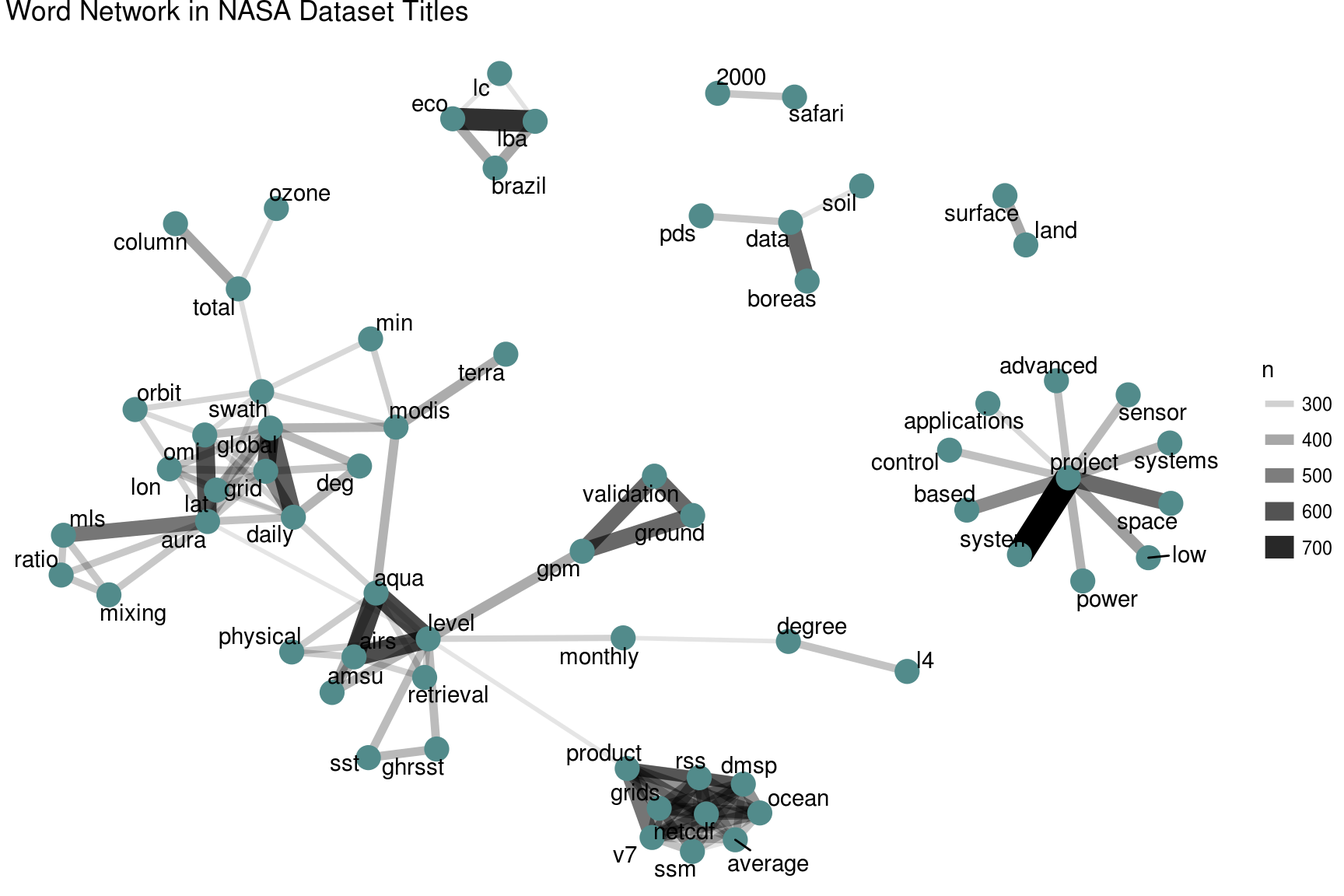
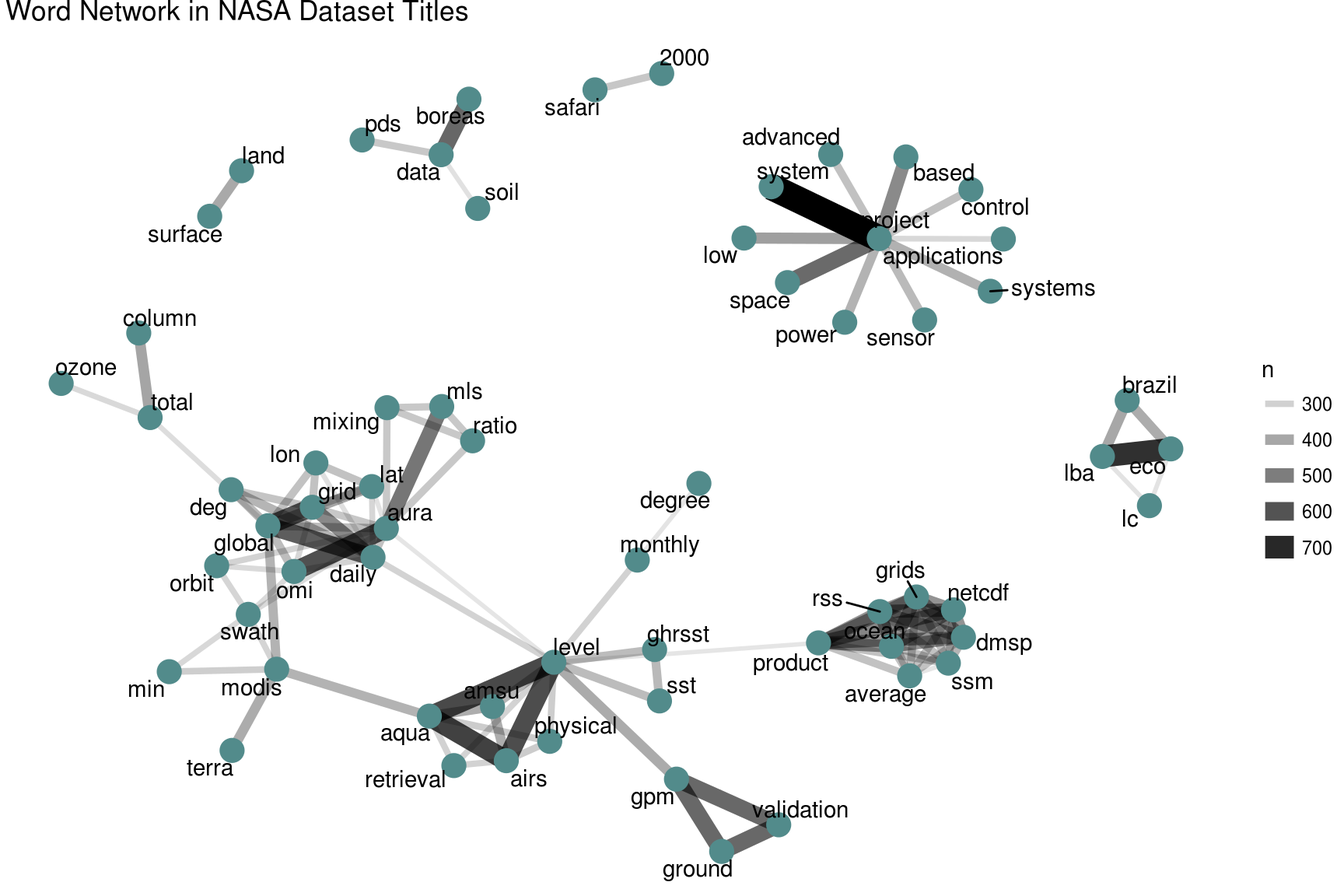
Updating book (182)

diff --git a/nasa.html b/nasa.html
@@ -313,19 +313,51 @@ nasa_keyword</code></pre></div>
 ## 10 55942a58c63a7fe59b495a7a EARTH SCIENCE
 ## # ... with 126,804 more rows</code></pre>
 <p>This is a tidy data frame because we have one row for each keyword; this means we will have multiple rows for each dataset because a dataset can have more than one keyword.</p>
-<p>Now it is time to use tidytext’s <code>unnest_tokens</code> for the title and description fields so we can do the text analysis. Let’s also remove common English words from the titles and descriptions. We will not remove stop words from the keywords, because those are short, human-assigned keywords like “RADIATION” or “CLIMATE INDICATORS”.</p>
+<p>Now it is time to use tidytext’s <code>unnest_tokens</code> for the title and description fields so we can do the text analysis. Let’s also remove common English words from the titles and descriptions. We will not remove stop words from the keywords, because those are short, human-assigned keywords like <strong>RADIATION</strong> or <strong>CLIMATE INDICATORS</strong>.</p>
 <div class="sourceCode"><pre class="sourceCode r"><code class="sourceCode r"><span class="kw">library</span>(tidytext)
 
 nasa_title &lt;-<span class="st"> </span>nasa_title %&gt;%<span class="st"> </span>
 <span class="st">  </span><span class="kw">unnest_tokens</span>(word, title) %&gt;%<span class="st"> </span>
 <span class="st">  </span><span class="kw">anti_join</span>(stop_words)
+
 nasa_desc &lt;-<span class="st"> </span>nasa_desc %&gt;%<span class="st"> </span>
 <span class="st">  </span><span class="kw">unnest_tokens</span>(word, desc) %&gt;%<span class="st"> </span>
 <span class="st">  </span><span class="kw">anti_join</span>(stop_words)</code></pre></div>
+<p>These are now in the tidy text format that we have been working with throughout this book, with one token (word, in this case) per row; let’s take a look before we move on in our analysis.</p>
+<div class="sourceCode"><pre class="sourceCode r"><code class="sourceCode r">nasa_title</code></pre></div>
+<pre><code>## # A tibble: 210,914 × 2
+##                          id         word
+##                       &lt;chr&gt;        &lt;chr&gt;
+## 1  56d07ee5a759fdadc44e5923       marble
+## 2  56d07ee5a759fdadc44e5923         epic
+## 3  56d07c16a759fdadc44e5922       fitara
+## 4  56d07c16a759fdadc44e5922         ocio
+## 5  56cf5b00a759fdadc44e5849 implementing
+## 6  56cf5b00a759fdadc44e5846     receding
+## 7  56cf5b00a759fdadc44e5846    recursive
+## 8  56cf5b00a759fdadc44e5840   complaints
+## 9  56cf5b00a759fdadc44e583b        score
+## 10 56cf5b00a759fdadc44e583a          fix
+## # ... with 210,904 more rows</code></pre>
+<div class="sourceCode"><pre class="sourceCode r"><code class="sourceCode r">nasa_desc</code></pre></div>
+<pre><code>## # A tibble: 2,677,811 × 2
+##                          id            word
+##                       &lt;chr&gt;           &lt;chr&gt;
+## 1  56d07c16a759fdadc44e5922          fitara
+## 2  56d07c16a759fdadc44e5922            ocio
+## 3  56cf5b00a759fdadc44e584a   degradation&#39;s
+## 4  56cf5b00a759fdadc44e5847         dchwp1s
+## 5  56cf5b00a759fdadc44e5847        dchwp1sp
+## 6  56cf5b00a759fdadc44e5847          dchwdp
+## 7  56cf5b00a759fdadc44e5847         dchwsnf
+## 8  56cf5b00a759fdadc44e5847         dchwssf
+## 9  56cf5b00a759fdadc44e5847        bursting
+## 10 56cf5b00a759fdadc44e5847 consequentially
+## # ... with 2,677,801 more rows</code></pre>
 </div>
 <div id="some-initial-simple-exploration" class="section level2">
 <h2><span class="header-section-number">9.3</span> Some initial simple exploration</h2>
-<p>What are the most common words in the NASA dataset titles? We can use <code>count</code> from dplyr to find this.</p>
+<p>What are the most common words in the NASA dataset titles? We can use <code>count</code> from dplyr to check this out.</p>
 <div class="sourceCode"><pre class="sourceCode r"><code class="sourceCode r">nasa_title %&gt;%
 <span class="st">  </span><span class="kw">count</span>(word, <span class="dt">sort =</span> <span class="ot">TRUE</span>)</code></pre></div>
 <pre><code>## # A tibble: 11,614 × 2
@@ -359,10 +391,10 @@ nasa_desc &lt;-<span class="st"> </span>nasa_desc %&gt;%<span class="st"> </span
 ## 9       earth 14373
 ## 10 resolution 13879
 ## # ... with 35,930 more rows</code></pre>
-<p>Words like “data” and “global” are used very often in NASA titles and descriptions. We may want to remove digits and some “words” like “v1” from these data frames for many types of analyses; they are not too meaningful for most audiences. We can do this by making a list of custom stop words and using <code>anti_join</code> to remove them from the data frame, just like we removed the default stop words that are in the tidytext package. This approach can be used in many instances.</p>
+<p>Words like “data” and “global” are used very often in NASA titles and descriptions. We may want to remove digits and some “words” like “v1” from these data frames for many types of analyses; they are not too meaningful for most audiences. We can do this by making a list of custom stop words and using <code>anti_join</code> to remove them from the data frame, just like we removed the default stop words that are in the tidytext package. This approach can be used in many instances and is a great tool to bear in mind.</p>
 <div class="sourceCode"><pre class="sourceCode r"><code class="sourceCode r">my_stopwords &lt;-<span class="st"> </span><span class="kw">data_frame</span>(<span class="dt">word =</span> <span class="kw">c</span>(<span class="kw">as.character</span>(<span class="dv">1</span>:<span class="dv">10</span>), 
-                                    <span class="st">&quot;v1&quot;</span>, <span class="st">&quot;v03&quot;</span>, <span class="st">&quot;l2&quot;</span>, <span class="st">&quot;l3&quot;</span>, <span class="st">&quot;v5.2.0&quot;</span>, 
-                                    <span class="st">&quot;v003&quot;</span>, <span class="st">&quot;v004&quot;</span>, <span class="st">&quot;v005&quot;</span>, <span class="st">&quot;v006&quot;</span>))
+                                    <span class="st">&quot;v1&quot;</span>, <span class="st">&quot;v03&quot;</span>, <span class="st">&quot;l2&quot;</span>, <span class="st">&quot;l3&quot;</span>, <span class="st">&quot;l4&quot;</span>, <span class="st">&quot;v5.2.0&quot;</span>, 
+                                    <span class="st">&quot;v003&quot;</span>, <span class="st">&quot;v004&quot;</span>, <span class="st">&quot;v005&quot;</span>, <span class="st">&quot;v006&quot;</span>, <span class="st">&quot;v7&quot;</span>))
 nasa_title &lt;-<span class="st"> </span>nasa_title %&gt;%<span class="st"> </span>
 <span class="st">  </span><span class="kw">anti_join</span>(my_stopwords)
 nasa_desc &lt;-<span class="st"> </span>nasa_desc %&gt;%<span class="st"> </span>
@@ -385,7 +417,7 @@ nasa_desc &lt;-<span class="st"> </span>nasa_desc %&gt;%<span class="st"> </span
 ## 9                   OCEANS  2765
 ## 10            LAND SURFACE  2720
 ## # ... with 1,764 more rows</code></pre>
-<p>Many NASA datasets have <em>Project completed</em> as a set of keywords. We likely want to change all of the keywords to either lower or upper case to get rid of duplicates like <em>OCEANS</em> and <em>Oceans</em>. Let’s do that here.</p>
+<p>Many NASA datasets have <strong>Project completed</strong> as a set of keywords. We likely want to change all of the keywords to either lower or upper case to get rid of duplicates like <strong>OCEANS</strong> and <strong>Oceans</strong>. Let’s do that here.</p>
 <div class="sourceCode"><pre class="sourceCode r"><code class="sourceCode r">nasa_keyword &lt;-<span class="st"> </span>nasa_keyword %&gt;%<span class="st"> </span>
 <span class="st">  </span><span class="kw">mutate</span>(<span class="dt">keyword =</span> <span class="kw">toupper</span>(keyword))</code></pre></div>
 </div>
@@ -398,7 +430,7 @@ title_words &lt;-<span class="st"> </span>nasa_title %&gt;%<span class="st"> </s
 <span class="st">  </span><span class="kw">pairwise_count</span>(word, id, <span class="dt">sort =</span> <span class="ot">TRUE</span>, <span class="dt">upper =</span> <span class="ot">FALSE</span>)
 
 title_words</code></pre></div>
-<pre><code>## # A tibble: 156,887 × 3
+<pre><code>## # A tibble: 156,689 × 3
 ##     item1   item2     n
 ##     &lt;chr&gt;   &lt;chr&gt; &lt;dbl&gt;
 ## 1  system project   796
@@ -411,13 +443,13 @@ title_words</code></pre></div>
 ## 8  global   daily   574
 ## 9    data  boreas   551
 ## 10 ground     gpm   550
-## # ... with 156,877 more rows</code></pre>
+## # ... with 156,679 more rows</code></pre>
 <p>These are the pairs of words that occur together most often in title fields. Some of these words are obviously acronyms used within NASA, and we see how often words like “project” and “system” are used.</p>
 <div class="sourceCode"><pre class="sourceCode r"><code class="sourceCode r">desc_words &lt;-<span class="st"> </span>nasa_desc %&gt;%<span class="st"> </span>
 <span class="st">  </span><span class="kw">pairwise_count</span>(word, id, <span class="dt">sort =</span> <span class="ot">TRUE</span>, <span class="dt">upper =</span> <span class="ot">FALSE</span>)
 
 desc_words</code></pre></div>
-<pre><code>## # A tibble: 10,889,644 × 3
+<pre><code>## # A tibble: 10,889,084 × 3
 ##         item1      item2     n
 ##         &lt;chr&gt;      &lt;chr&gt; &lt;dbl&gt;
 ## 1        data     global  9864
@@ -430,7 +462,7 @@ desc_words</code></pre></div>
 ## 8  resolution      bands  7584
 ## 9        data      earth  7576
 ## 10      orbit resolution  7462
-## # ... with 10,889,634 more rows</code></pre>
+## # ... with 10,889,074 more rows</code></pre>
 <p>These are the pairs of words that occur together most often in descripton fields. “Data” is a very common word in description fields; there is no shortage of data in the datasets at NASA!</p>
 <p>Let’s plot networks of these co-occurring words so we can see these relationships better. We will again use the ggraph package for visualizing our networks.</p>
 <div class="sourceCode"><pre class="sourceCode r"><code class="sourceCode r"><span class="kw">library</span>(ggplot2)
@@ -461,7 +493,7 @@ desc_words %&gt;%
 <span class="st">  </span><span class="kw">ggtitle</span>(<span class="st">&quot;Word Network in NASA Dataset Descriptions&quot;</span>) +
 <span class="st">  </span><span class="kw">theme_void</span>()</code></pre></div>
 <p><img src="09-nasa-metadata_files/figure-html/plot_desc-1.png" width="864" /></p>
-<p>Here there are such <em>strong</em> connections between the top dozen or so words (words like “data”, “resolution”, and “instrument”) that we do not see clear clustering structure in the network. We may want to use tf-idf (as described in detail in <a href="tfidf.html#tfidf">Chapter 4</a>) as a metric to find characteristic words for each description field, instead of looking at counts of words.</p>
+<p>Here there are such <em>strong</em> connections between the top dozen or so words (words like “data”, “global”, “resolution”, and “instrument”) that we do not see clear clustering structure in the network. We may want to use tf-idf (as described in detail in <a href="tfidf.html#tfidf">Chapter 4</a>) as a metric to find characteristic words for each description field, instead of looking at counts of words.</p>
 <p>Next, let’s make a network of the keywords to see which keywords commonly occur together in the same datasets.</p>
 <div class="sourceCode"><pre class="sourceCode r"><code class="sourceCode r">keyword_counts &lt;-<span class="st"> </span>nasa_keyword %&gt;%<span class="st"> </span>
 <span class="st">  </span><span class="kw">pairwise_count</span>(keyword, id, <span class="dt">sort =</span> <span class="ot">TRUE</span>, <span class="dt">upper =</span> <span class="ot">FALSE</span>)
@@ -492,7 +524,7 @@ keyword_counts %&gt;%
 <span class="st">  </span><span class="kw">ggtitle</span>(<span class="st">&quot;Co-occurrence Network in NASA Dataset Keywords&quot;</span>) +
 <span class="st">  </span><span class="kw">theme_void</span>()</code></pre></div>
 <p><img src="09-nasa-metadata_files/figure-html/plot_counts-1.png" width="864" /></p>
-<p>We definitely see clustering here, and strong connections between keywords like <em>OCEANS</em>, <em>OCEAN OPTICS</em>, and <em>OCEAN COLOR</em>, or <em>PROJECT</em> and <em>COMPLETED</em>. These are the most commonly co-occurring words, but also just the most common keywords in general. To examine the relationships among keywords in a different way, we can find the correlation among the keywords as described in <a href="ngrams.html#ngrams">Chapter 5</a>. This looks for which keywords that are more likely to occur together than with other keywords in a description field.</p>
+<p>We definitely see clustering here, and strong connections between keywords like <strong>OCEANS</strong>, <strong>OCEAN OPTICS</strong>, and <strong>OCEAN COLOR</strong>, or **PROJECT* and *COMPLETED**. These are the most commonly co-occurring words, but also just the most common keywords in general. To examine the relationships among keywords in a different way, we can find the correlation among the keywords as described in <a href="ngrams.html#ngrams">Chapter 5</a>. This looks for which keywords that are more likely to occur together than with other keywords in a description field.</p>
 <div class="sourceCode"><pre class="sourceCode r"><code class="sourceCode r">keyword_cors &lt;-<span class="st"> </span>nasa_keyword %&gt;%<span class="st"> </span>
 <span class="st">  </span><span class="kw">group_by</span>(keyword) %&gt;%
 <span class="st">  </span><span class="kw">filter</span>(<span class="kw">n</span>() &gt;=<span class="st"> </span><span class="dv">50</span>) %&gt;%
@@ -538,7 +570,7 @@ keyword_cors %&gt;%
 <p>What are the highest tf-idf words in the NASA description fields?</p>
 <div class="sourceCode"><pre class="sourceCode r"><code class="sourceCode r">desc_tf_idf %&gt;%<span class="st"> </span>
 <span class="st">  </span><span class="kw">arrange</span>(-tf_idf)</code></pre></div>
-<pre><code>## # A tibble: 1,913,349 × 6
+<pre><code>## # A tibble: 1,913,224 × 6
 ##                          id                                          word     n    tf       idf
 ##                       &lt;chr&gt;                                         &lt;chr&gt; &lt;int&gt; &lt;dbl&gt;     &lt;dbl&gt;
 ## 1  55942a7cc63a7fe59b49774a                                           rdr     1     1 10.375052
@@ -551,7 +583,7 @@ keyword_cors %&gt;%
 ## 8  55942ad8c63a7fe59b49cf6c                      template_proddescription     1     1  8.295611
 ## 9  55942ad8c63a7fe59b49cf6d                      template_proddescription     1     1  8.295611
 ## 10 55942ad8c63a7fe59b49cf6e                      template_proddescription     1     1  8.295611
-## # ... with 1,913,339 more rows, and 1 more variables: tf_idf &lt;dbl&gt;</code></pre>
+## # ... with 1,913,214 more rows, and 1 more variables: tf_idf &lt;dbl&gt;</code></pre>
 <p>These are the most important words in the description fields as measured by tf-idf, meaning they are common but not too common. Notice we have run into an issue here; both <span class="math inline">\(n\)</span> and term frequency are equal to 1 for these terms, meaning that these were description fields that only had a single word in them. If a description field only contains one word, the tf-idf algorithm will think that is a really important word. Depending on our analytic goals, it might be a good idea to throw out all description fields that have fewer than 5 words or similar.</p>
 <p>We now know which words in the descriptions have high tf-idf, and we also have labels for these descriptions in the keywords. Let’s do a full join of the keyword data frame and the data frame of description words with tf-idf, and then find the highest tf-idf words for a given keyword.</p>
 <div class="sourceCode"><pre class="sourceCode r"><code class="sourceCode r">desc_tf_idf &lt;-<span class="st"> </span><span class="kw">full_join</span>(desc_tf_idf, nasa_keyword, <span class="dt">by =</span> <span class="st">&quot;id&quot;</span>)</code></pre></div>
@@ -597,7 +629,7 @@ word_counts &lt;-<span class="st"> </span>nasa_desc %&gt;%
 <span class="st">  </span><span class="kw">ungroup</span>()
 
 word_counts</code></pre></div>
-<pre><code>## # A tibble: 1,908,138 × 3
+<pre><code>## # A tibble: 1,908,013 × 3
 ##                          id     word     n
 ##                       &lt;chr&gt;    &lt;chr&gt; &lt;int&gt;
 ## 1  55942a8ec63a7fe59b4986ef     suit    82
@@ -610,14 +642,14 @@ word_counts</code></pre></div>
 ## 8  55942a89c63a7fe59b4982d9       em    32
 ## 9  55942a8ec63a7fe59b4986ef       al    32
 ## 10 55942a8ec63a7fe59b4986ef    human    31
-## # ... with 1,908,128 more rows</code></pre>
+## # ... with 1,908,003 more rows</code></pre>
 <p>This is the information we need, the number of times each word is used in each document, to make a <code>DocumentTermMatrix</code>. We can <code>cast</code> from our tidy text format to this non-tidy format as described in detail in <a href="dtm.html#dtm">Chapter 6</a>.</p>
 <div class="sourceCode"><pre class="sourceCode r"><code class="sourceCode r">desc_dtm &lt;-<span class="st"> </span>word_counts %&gt;%
 <span class="st">  </span><span class="kw">cast_dtm</span>(id, word, n)
 
 desc_dtm</code></pre></div>
-<pre><code>## &lt;&lt;DocumentTermMatrix (documents: 32003, terms: 35908)&gt;&gt;
-## Non-/sparse entries: 1908138/1147255586
+<pre><code>## &lt;&lt;DocumentTermMatrix (documents: 32003, terms: 35906)&gt;&gt;
+## Non-/sparse entries: 1908013/1147191705
 ## Sparsity           : 100%
 ## Maximal term length: 166
 ## Weighting          : term frequency (tf)</code></pre>

diff --git a/09-nasa-metadata.md b/09-nasa-metadata.md
@@ -166,7 +166,7 @@ nasa_keyword
 
 This is a tidy data frame because we have one row for each keyword; this means we will have multiple rows for each dataset because a dataset can have more than one keyword.
 
-Now it is time to use tidytext's `unnest_tokens` for the title and description fields so we can do the text analysis. Let's also remove common English words from the titles and descriptions. We will not remove stop words from the keywords, because those are short, human-assigned keywords like "RADIATION" or "CLIMATE INDICATORS".
+Now it is time to use tidytext's `unnest_tokens` for the title and description fields so we can do the text analysis. Let's also remove common English words from the titles and descriptions. We will not remove stop words from the keywords, because those are short, human-assigned keywords like **RADIATION** or **CLIMATE INDICATORS**.
 
 
 ```r
@@ -175,14 +175,61 @@ library(tidytext)
 nasa_title <- nasa_title %>% 
   unnest_tokens(word, title) %>% 
   anti_join(stop_words)
+
 nasa_desc <- nasa_desc %>% 
   unnest_tokens(word, desc) %>% 
   anti_join(stop_words)
 ```
 
+These are now in the tidy text format that we have been working with throughout this book, with one token (word, in this case) per row; let's take a look before we move on in our analysis.
+
+
+```r
+nasa_title
+```
+
+```
+## # A tibble: 210,914 × 2
+##                          id         word
+##                       <chr>        <chr>
+## 1  56d07ee5a759fdadc44e5923       marble
+## 2  56d07ee5a759fdadc44e5923         epic
+## 3  56d07c16a759fdadc44e5922       fitara
+## 4  56d07c16a759fdadc44e5922         ocio
+## 5  56cf5b00a759fdadc44e5849 implementing
+## 6  56cf5b00a759fdadc44e5846     receding
+## 7  56cf5b00a759fdadc44e5846    recursive
+## 8  56cf5b00a759fdadc44e5840   complaints
+## 9  56cf5b00a759fdadc44e583b        score
+## 10 56cf5b00a759fdadc44e583a          fix
+## # ... with 210,904 more rows
+```
+
+```r
+nasa_desc
+```
+
+```
+## # A tibble: 2,677,811 × 2
+##                          id            word
+##                       <chr>           <chr>
+## 1  56d07c16a759fdadc44e5922          fitara
+## 2  56d07c16a759fdadc44e5922            ocio
+## 3  56cf5b00a759fdadc44e584a   degradation's
+## 4  56cf5b00a759fdadc44e5847         dchwp1s
+## 5  56cf5b00a759fdadc44e5847        dchwp1sp
+## 6  56cf5b00a759fdadc44e5847          dchwdp
+## 7  56cf5b00a759fdadc44e5847         dchwsnf
+## 8  56cf5b00a759fdadc44e5847         dchwssf
+## 9  56cf5b00a759fdadc44e5847        bursting
+## 10 56cf5b00a759fdadc44e5847 consequentially
+## # ... with 2,677,801 more rows
+```
+
+
 ## Some initial simple exploration
 
-What are the most common words in the NASA dataset titles? We can use `count` from dplyr to find this.
+What are the most common words in the NASA dataset titles? We can use `count` from dplyr to check this out.
 
 
 ```r
@@ -232,13 +279,13 @@ nasa_desc %>%
 ## # ... with 35,930 more rows
 ```
 
-Words like "data" and "global" are used very often in NASA titles and descriptions. We may want to remove digits and some "words" like "v1" from these data frames for many types of analyses; they are not too meaningful for most audiences. We can do this by making a list of custom stop words and using `anti_join` to remove them from the data frame, just like we removed the default stop words that are in the tidytext package. This approach can be used in many instances.
+Words like "data" and "global" are used very often in NASA titles and descriptions. We may want to remove digits and some "words" like "v1" from these data frames for many types of analyses; they are not too meaningful for most audiences. We can do this by making a list of custom stop words and using `anti_join` to remove them from the data frame, just like we removed the default stop words that are in the tidytext package. This approach can be used in many instances and is a great tool to bear in mind.
 
 
 ```r
 my_stopwords <- data_frame(word = c(as.character(1:10), 
-                                    "v1", "v03", "l2", "l3", "v5.2.0", 
-                                    "v003", "v004", "v005", "v006"))
+                                    "v1", "v03", "l2", "l3", "l4", "v5.2.0", 
+                                    "v003", "v004", "v005", "v006", "v7"))
 nasa_title <- nasa_title %>% 
   anti_join(my_stopwords)
 nasa_desc <- nasa_desc %>% 
@@ -271,7 +318,7 @@ nasa_keyword %>%
 ## # ... with 1,764 more rows
 ```
 
-Many NASA datasets have *Project completed* as a set of keywords. We likely want to change all of the keywords to either lower or upper case to get rid of duplicates like *OCEANS* and *Oceans*. Let's do that here.
+Many NASA datasets have **Project completed** as a set of keywords. We likely want to change all of the keywords to either lower or upper case to get rid of duplicates like **OCEANS** and **Oceans**. Let's do that here.
 
 
 ```r
@@ -294,7 +341,7 @@ title_words
 ```
 
 ```
-## # A tibble: 156,887 × 3
+## # A tibble: 156,689 × 3
 ##     item1   item2     n
 ##     <chr>   <chr> <dbl>
 ## 1  system project   796
@@ -307,7 +354,7 @@ title_words
 ## 8  global   daily   574
 ## 9    data  boreas   551
 ## 10 ground     gpm   550
-## # ... with 156,877 more rows
+## # ... with 156,679 more rows
 ```
 
 These are the pairs of words that occur together most often in title fields. Some of these words are obviously acronyms used within NASA, and we see how often words like "project" and "system" are used.
@@ -321,7 +368,7 @@ desc_words
 ```
 
 ```
-## # A tibble: 10,889,644 × 3
+## # A tibble: 10,889,084 × 3
 ##         item1      item2     n
 ##         <chr>      <chr> <dbl>
 ## 1        data     global  9864
@@ -334,7 +381,7 @@ desc_words
 ## 8  resolution      bands  7584
 ## 9        data      earth  7576
 ## 10      orbit resolution  7462
-## # ... with 10,889,634 more rows
+## # ... with 10,889,074 more rows
 ```
 
 These are the pairs of words that occur together most often in descripton fields. "Data" is a very common word in description fields; there is no shortage of data in the datasets at NASA!
@@ -381,7 +428,7 @@ desc_words %>%
 
 <img src="09-nasa-metadata_files/figure-html/plot_desc-1.png" width="864" />
 
-Here there are such *strong* connections between the top dozen or so words (words like "data", "resolution", and "instrument") that we do not see clear clustering structure in the network. We may want to use tf-idf (as described in detail in [Chapter 4](#tfidf)) as a metric to find characteristic words for each description field, instead of looking at counts of words. 
+Here there are such *strong* connections between the top dozen or so words (words like "data", "global", "resolution", and "instrument") that we do not see clear clustering structure in the network. We may want to use tf-idf (as described in detail in [Chapter 4](#tfidf)) as a metric to find characteristic words for each description field, instead of looking at counts of words. 
 
 Next, let's make a network of the keywords to see which keywords commonly occur together in the same datasets.
 
@@ -425,7 +472,7 @@ keyword_counts %>%
 
 <img src="09-nasa-metadata_files/figure-html/plot_counts-1.png" width="864" />
 
-We definitely see clustering here, and strong connections between keywords like *OCEANS*, *OCEAN OPTICS*, and *OCEAN COLOR*, or *PROJECT* and *COMPLETED*. These are the most commonly co-occurring words, but also just the most common keywords in general. To examine the relationships among keywords in a different way, we can find the correlation among the keywords as described in [Chapter 5](#ngrams). This looks for which keywords that are more likely to occur together than with other keywords in a description field.
+We definitely see clustering here, and strong connections between keywords like **OCEANS**, **OCEAN OPTICS**, and **OCEAN COLOR**, or **PROJECT* and *COMPLETED**. These are the most commonly co-occurring words, but also just the most common keywords in general. To examine the relationships among keywords in a different way, we can find the correlation among the keywords as described in [Chapter 5](#ngrams). This looks for which keywords that are more likely to occur together than with other keywords in a description field.
 
 
 ```r
@@ -497,7 +544,7 @@ desc_tf_idf %>%
 ```
 
 ```
-## # A tibble: 1,913,349 × 6
+## # A tibble: 1,913,224 × 6
 ##                          id                                          word     n    tf       idf
 ##                       <chr>                                         <chr> <int> <dbl>     <dbl>
 ## 1  55942a7cc63a7fe59b49774a                                           rdr     1     1 10.375052
@@ -510,7 +557,7 @@ desc_tf_idf %>%
 ## 8  55942ad8c63a7fe59b49cf6c                      template_proddescription     1     1  8.295611
 ## 9  55942ad8c63a7fe59b49cf6d                      template_proddescription     1     1  8.295611
 ## 10 55942ad8c63a7fe59b49cf6e                      template_proddescription     1     1  8.295611
-## # ... with 1,913,339 more rows, and 1 more variables: tf_idf <dbl>
+## # ... with 1,913,214 more rows, and 1 more variables: tf_idf <dbl>
 ```
 
 These are the most important words in the description fields as measured by tf-idf, meaning they are common but not too common. Notice we have run into an issue here; both $n$ and term frequency are equal to 1 for these terms, meaning that these were description fields that only had a single word in them. If a description field only contains one word, the tf-idf algorithm will think that is a really important word. Depending on our analytic goals, it might be a good idea to throw out all description fields that have fewer than 5 words or similar.
@@ -578,7 +625,7 @@ word_counts
 ```
 
 ```
-## # A tibble: 1,908,138 × 3
+## # A tibble: 1,908,013 × 3
 ##                          id     word     n
 ##                       <chr>    <chr> <int>
 ## 1  55942a8ec63a7fe59b4986ef     suit    82
@@ -591,7 +638,7 @@ word_counts
 ## 8  55942a89c63a7fe59b4982d9       em    32
 ## 9  55942a8ec63a7fe59b4986ef       al    32
 ## 10 55942a8ec63a7fe59b4986ef    human    31
-## # ... with 1,908,128 more rows
+## # ... with 1,908,003 more rows
 ```
 
 This is the information we need, the number of times each word is used in each document, to make a `DocumentTermMatrix`. We can `cast` from our tidy text format to this non-tidy format as described in detail in [Chapter 6](#dtm).
@@ -605,8 +652,8 @@ desc_dtm
 ```
 
 ```
-## <<DocumentTermMatrix (documents: 32003, terms: 35908)>>
-## Non-/sparse entries: 1908138/1147255586
+## <<DocumentTermMatrix (documents: 32003, terms: 35906)>>
+## Non-/sparse entries: 1908013/1147191705
 ## Sparsity           : 100%
 ## Maximal term length: 166
 ## Weighting          : term frequency (tf)
